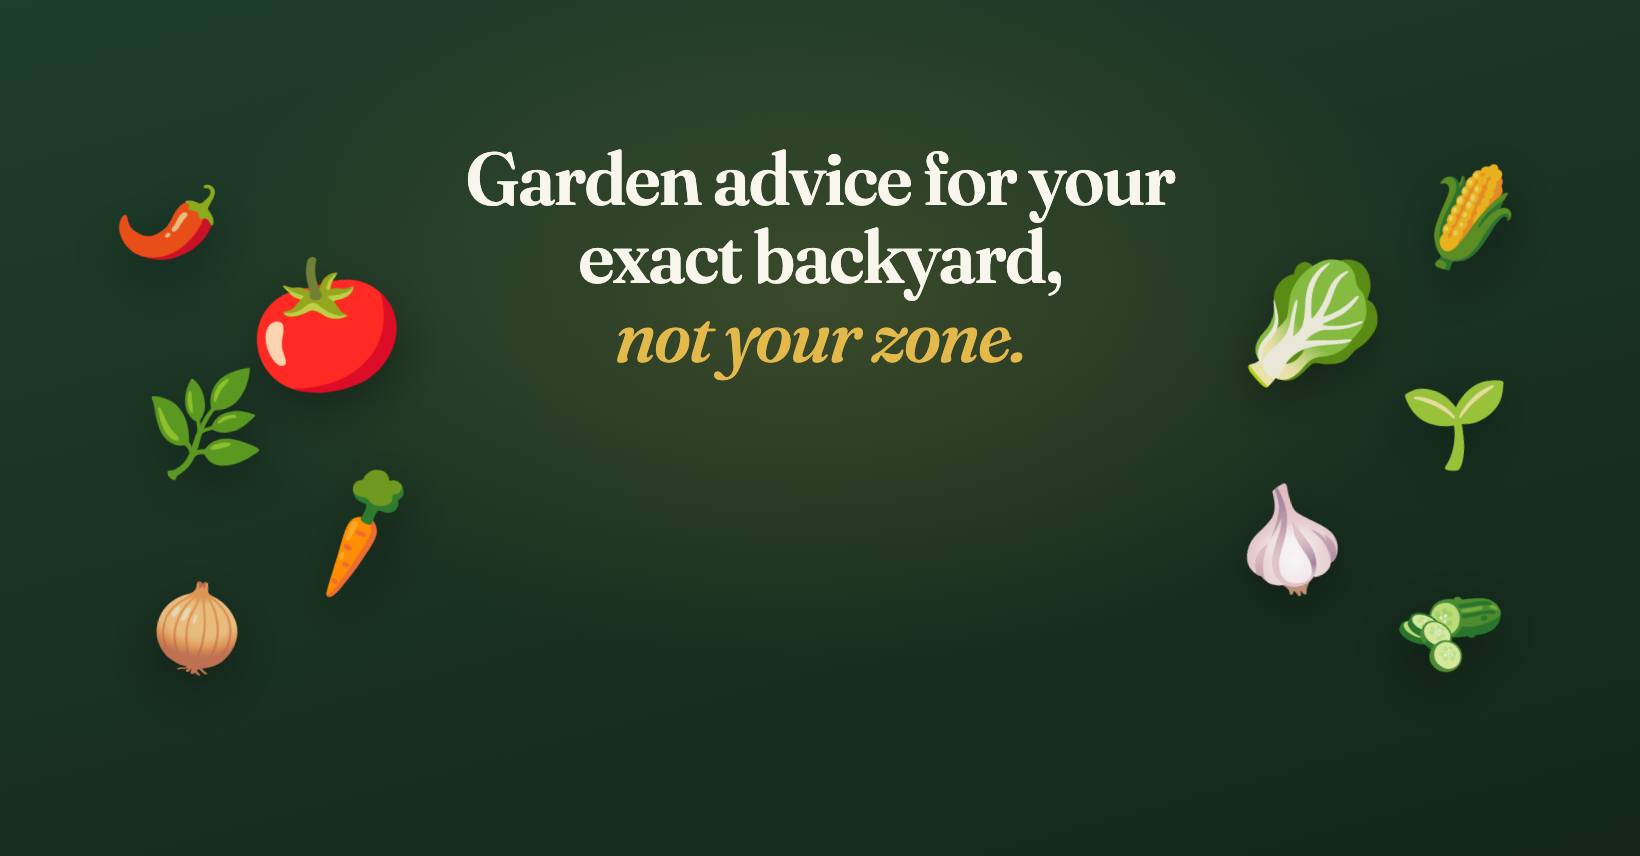
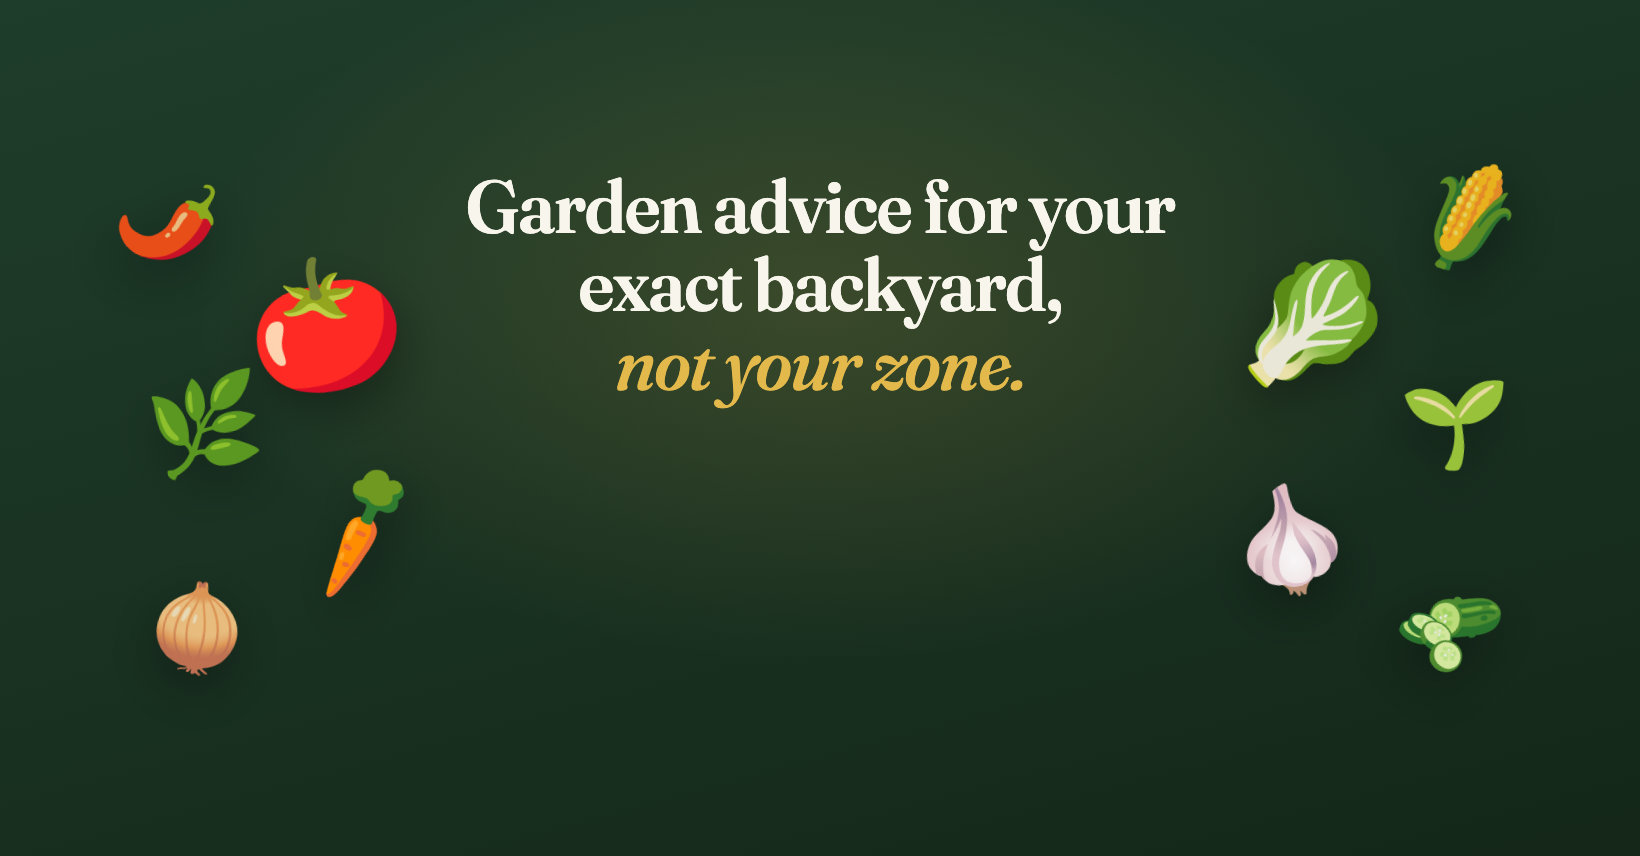
Facebook cover: lower the headline slightly for balance

Changed region(s): [[0.2799, 0.1822, 0.7152, 0.486]]

diff --git a/marketing/facebook/cover-source.html b/marketing/facebook/cover-source.html
@@ -4,7 +4,7 @@
 html,body{margin:0;width:1640px;height:856px;overflow:hidden}
 body{position:relative;
  background:radial-gradient(ellipse 900px 520px at 50% 35%,rgba(227,185,76,0.16),transparent 70%),linear-gradient(165deg,#1F3D2B 0%,#142719 100%)}
-.text{position:absolute;left:0;right:0;top:140px;display:flex;justify-content:center}
+.text{position:absolute;left:0;right:0;top:168px;display:flex;justify-content:center}
 h1{font-family:'Fraunces',serif;font-weight:600;font-size:74px;line-height:1.06;color:#F7F5EC;margin:0;letter-spacing:-1.5px;text-align:center;max-width:860px}
 h1 em{font-style:italic;font-weight:500;color:#E3B94C}
 .emo{position:absolute;filter:drop-shadow(0 18px 24px rgba(0,0,0,0.32))}
